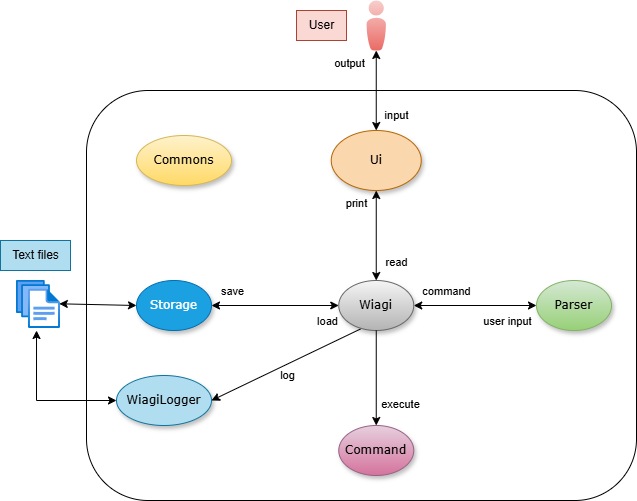
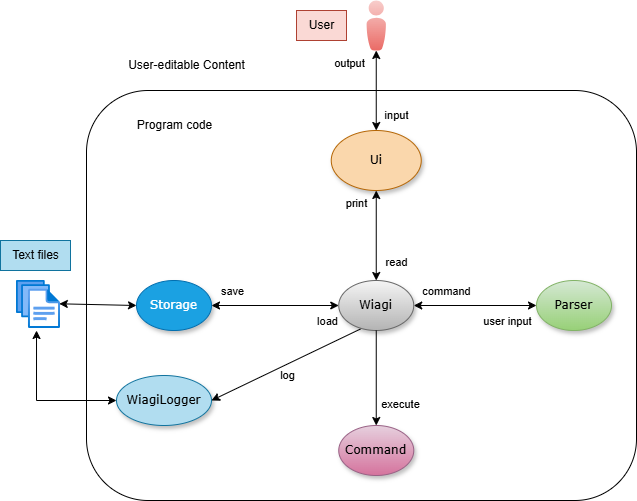
Edit architecture diagram to imporve understandability

Changed region(s): [[0.2088, 0.2395, 0.3878, 0.3892], [0.2088, 0.1198, 0.3878, 0.1497]]

diff --git a/docs/DeveloperGuide.md b/docs/DeveloperGuide.md
@@ -18,8 +18,29 @@ original source as well}
 # Design & implementation
 
 <!-- architecture diagram and explain component briefly -->
+## Architecture Diagram
+<img src="./Diagrams/Overall/architectureDiagram.png" alt="architectureDiagram" width="350" height="300"/><br>
+The Architecture Diagram given above explains the high-level design of the program.
+
+Given below is a quick overview of main components and how they interact with each other.
+
+#### Main components of the architecture
+1. `Wiagi`: The command executor and brain of the program.
+2. `UI`: Takes in user input and prints output of the program.
+    - Provides a wide variety of output formats, enabling it to work with different components.
+3. `Parser`:  Breaks down user input to deduce their intended command.
+    - Returns a `Command` object to `Wiagi` based on the user input.
+4. `Command`: Represents a collection of command classes with different functionalities.
+5. `Storage`: Reads data from, and writes data to, the hard disk.
+6. `WiagiLogger`: Tracks events that happened when the program runs.
 
 <!-- Wiagi component -->
+- At program launch, it initializes components, such as `WiagiLogger` and `Storage`, ensuring that the user data is
+  loaded securely.
+- It will then repeatedly read in user commands with `Ui`, breaks it down with `Parser` and executes them accordingly
+  with `Command`.
+- When a shut-down command is initiated by the user, the program will be ended.
+
 <!-- general intro, convert overall cd to wiagi diagram -->
 
 ## Data Types and Structure
@@ -260,27 +281,7 @@ Functionality:
 ===================================================================================================================
 <!-- Old version to refactor above this line -->
 
-### Architecture Diagram
-<img src="./Diagrams/Overall/architectureDiagram.png" alt="architectureDiagram" width="350" height="300"/><br>
-The Architecture Diagram given above explains the high-level design of the program.
 
-Given below is a quick overview of main components and how they interact with each other.
-
-#### Main components of the architecture
-1. `Wiagi`: The command executor and brain of the program.
-   - At program launch, it initializes components, such as `WiagiLogger` and `Storage`, ensuring that the user data is
-          loaded securely.
-   - It will then repeatedly read in user commands with `Ui`, breaks it down with `Parser` and executes them accordingly
-     with `Command`.
-   - When a shut-down command is initiated by the user, it saves all changes made to `Storage`
-2. `UI`: Takes in user input and prints output of the program.
-   - Provides a wide variety of output formats, enabling it to work with different components. 
-3. `Parser`:  Breaks down user input to deduce their intended command.
-   - Returns a `Command` object to `Wiagi` based on the user input.
-4. `Command`: Represents a collection of command classes with different functionalities.
-5. `Storage`: Reads data from, and writes data to, the hard disk.
-6. `WiagiLogger`: Tracks events that happened when the program runs.
-7. `Commons`: Represents a collection of classes used by multiple other components.
 
 
 ### Overall Class Diagram
